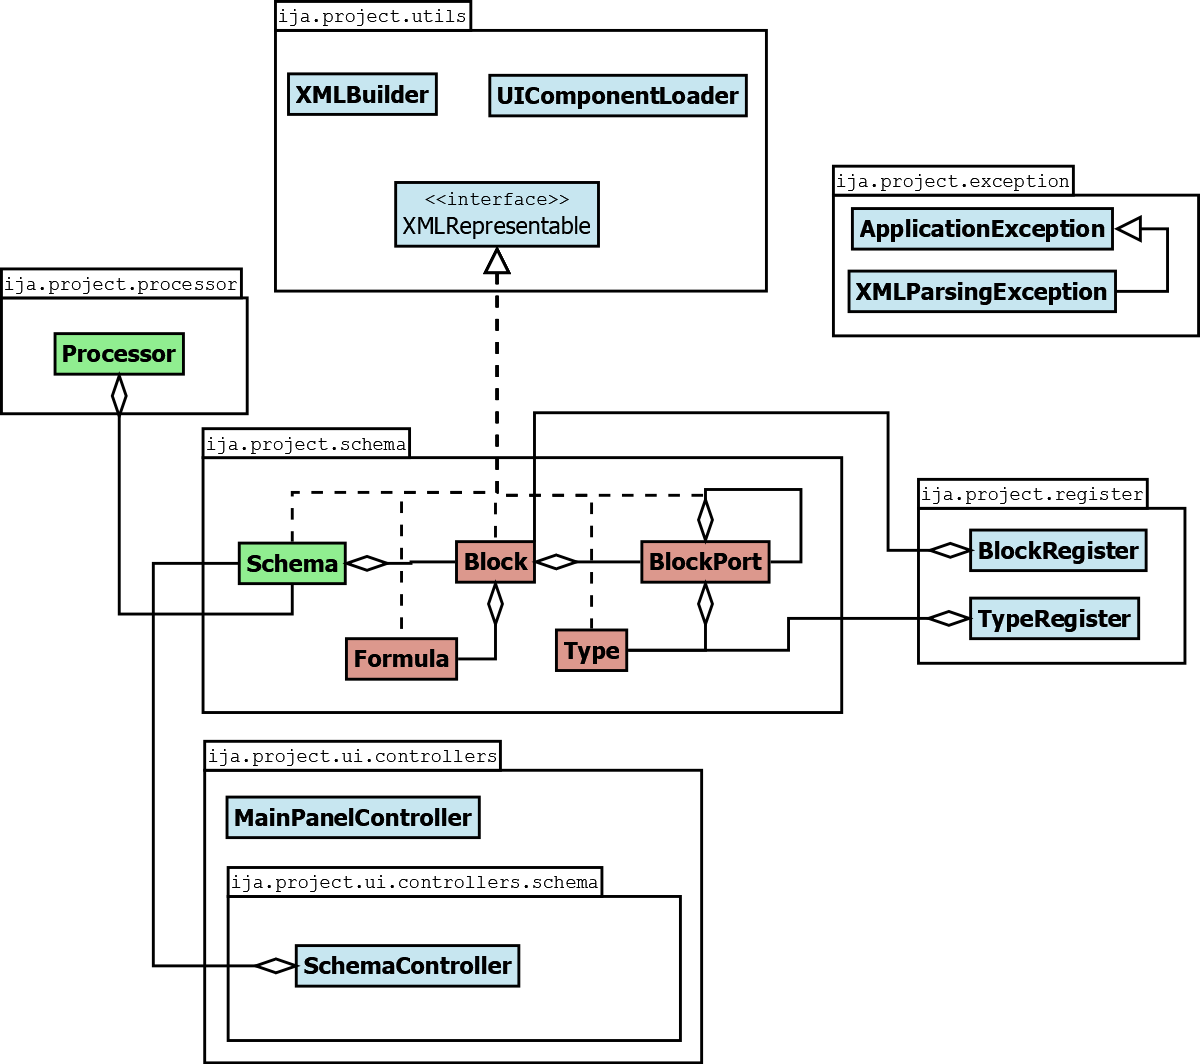
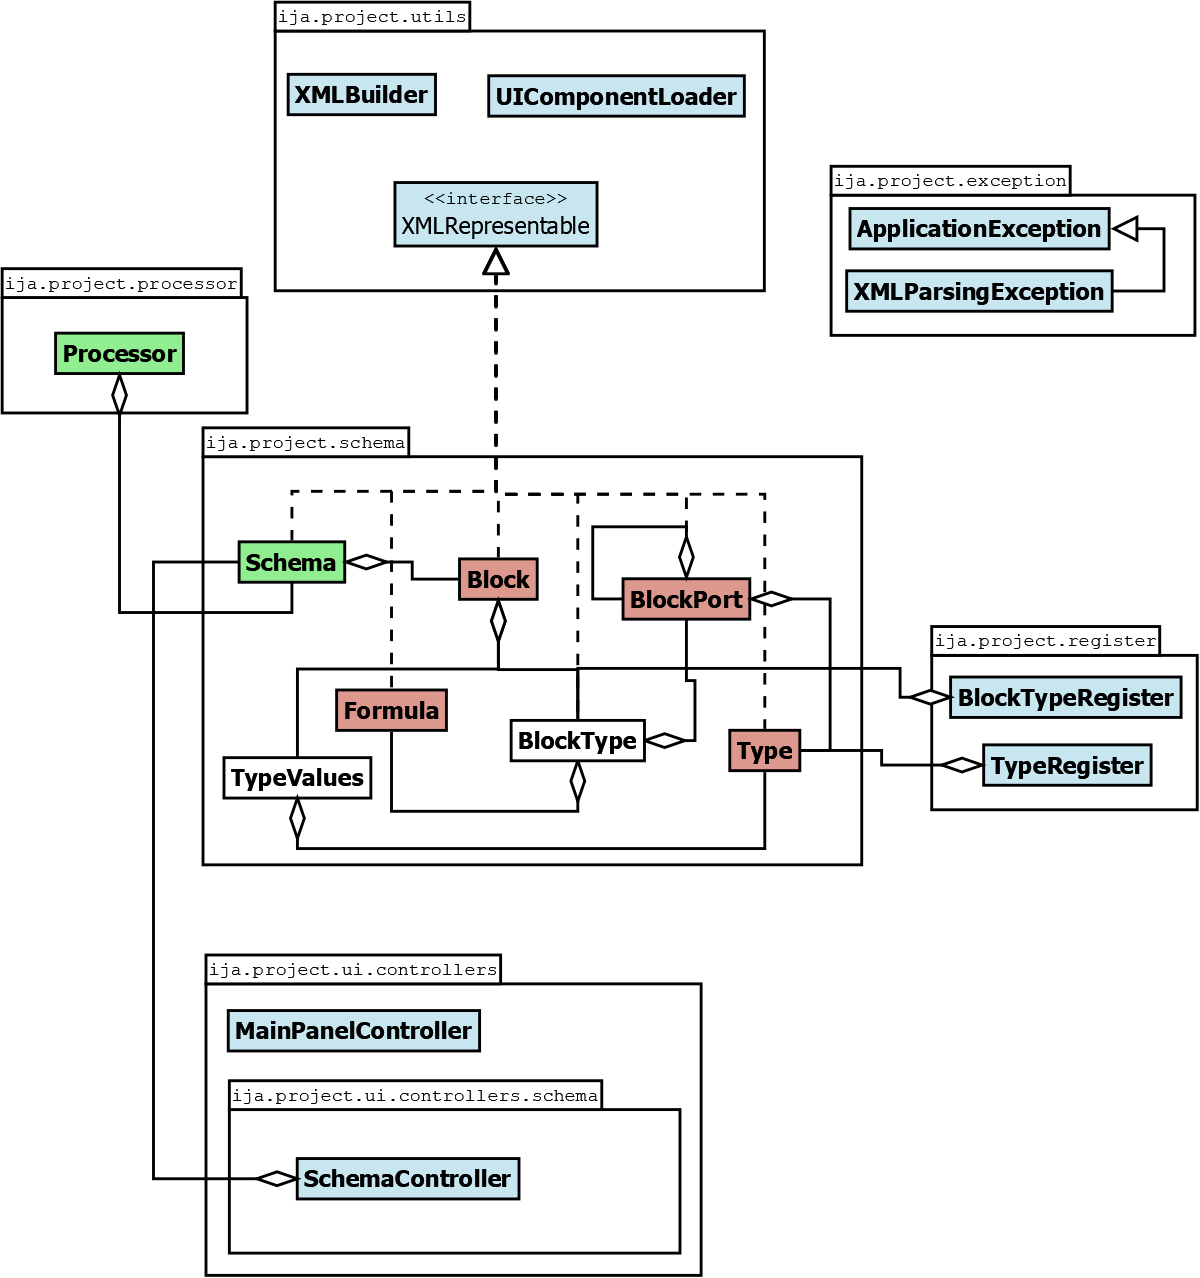
More doc, updated UML

Changed region(s): [[0.0, 0.0, 1.0, 1.0], [0.6783, 0.1241, 1.0, 0.3412]]

diff --git a/src/ija/project/schema/Block.java b/src/ija/project/schema/Block.java
@@ -41,15 +41,25 @@ public class Block implements XMLRepresentable {
 	 */
 	private DoubleProperty y;
 
+	/**
+	 * Construct blank object
+	 */
 	public Block() {
 		initEmpty();
 	}
 
+	/**
+	 * Construct object from given block type
+	 * @param blockType block type
+	 */
 	public Block(BlockType blockType) {
 		initEmpty();
 		initFromBlockType(blockType);
 	}
 
+	/**
+	 * Init empty block object
+	 */
 	private void initEmpty() {
 		this.blockType = null;
 		this.inputPorts = new HashMap<>();
@@ -59,6 +69,10 @@ public class Block implements XMLRepresentable {
 		y = new SimpleDoubleProperty(0);
 	}
 
+	/**
+	 * Init block from block type
+	 * @param blockType block type
+	 */
 	private void initFromBlockType(BlockType blockType) {
 		this.blockType = blockType;
 
@@ -85,7 +99,13 @@ public class Block implements XMLRepresentable {
 
 	}
 
-	public void connectTo(String srcPort, Block dstBlock, String dstPort) {
+	/**
+	 * Connect block's port to another block's port
+	 * @param srcPort port from
+	 * @param dstBlock block to
+	 * @param dstPort port to
+	 */
+	public void connectTo(String srcPort, Block dstBlock, String dstPort) throws ApplicationException {
 		if (!connections.containsKey(srcPort))
 			throw new ApplicationException("Block '" + blockType.getId() + "' does not contain port '" + srcPort + "'");
 		if (!dstBlock.connections.containsKey(dstPort))
@@ -95,6 +115,10 @@ public class Block implements XMLRepresentable {
 		dstBlock.connections.put(dstPort, this);
 	}
 
+	/**
+	 * Block has unconnected output port
+	 * @return true if block has unconnected output port, false otherwise
+	 */
 	public boolean hasUnconnectedOutputPort() {
 		for (Map.Entry<String, TypeValues> port : outputPorts.entrySet()) {
 			if (connections.get(port.getKey()) == null)
@@ -103,26 +127,50 @@ public class Block implements XMLRepresentable {
 		return false;
 	}
 
+	/**
+	 * Get block x coordinate
+	 * @return x
+	 */
 	public double getX() {
 		return x.get();
 	}
 
+	/**
+	 * Get x coordinate property
+	 * @return x property
+	 */
 	public DoubleProperty xProperty() {
 		return x;
 	}
 
+	/**
+	 * Set block x coordinate
+	 * @param x x coordinate
+	 */
 	public void setX(double x) {
 		this.x.set(x);
 	}
 
+	/**
+	 * Get block y coordinate
+	 * @return y coordinate
+	 */
 	public double getY() {
 		return y.get();
 	}
 
+	/**
+	 * Get y coordinate property
+	 * @return y property
+	 */
 	public DoubleProperty yProperty() {
 		return y;
 	}
 
+	/**
+	 * Set block y coordinate
+	 * @param y coordinate
+	 */
 	public void setY(double y) {
 		this.y.set(y);
 	}

diff --git a/src/ija/project/schema/BlockType.java b/src/ija/project/schema/BlockType.java
@@ -5,12 +5,30 @@ import ija.project.utils.XMLRepresentable;
 
 import java.util.ArrayList;
 
+/**
+ * Block type defines block's input/output ports, formulas, id and display name
+ */
 public class BlockType implements XMLRepresentable {
 
+	/**
+	 * Block type ID
+	 */
 	private String id;
+	/**
+	 * Display name
+	 */
 	private String displayName;
+	/**
+	 * Input port definitions
+	 */
 	private ArrayList<BlockPort> inputPorts;
+	/**
+	 * Output port definitions
+	 */
 	private ArrayList<BlockPort> outputPorts;
+	/**
+	 * Blocks formulas
+	 */
 	private ArrayList<Formula> formulas;
 
 	/**
@@ -24,6 +42,11 @@ public class BlockType implements XMLRepresentable {
 		formulas = new ArrayList<>();
 	}
 
+	/**
+	 * Create block type with id and display name
+	 * @param id id
+	 * @param displayName display name
+	 */
 	public BlockType(String id, String displayName) {
 		this.id = id;
 		this.displayName = displayName;
@@ -107,10 +130,18 @@ public class BlockType implements XMLRepresentable {
 		this.displayName = displayName;
 	}
 
+	/**
+	 * Get input port definitions
+	 * @return list of input ports
+	 */
 	public ArrayList<BlockPort> getInputPorts() {
 		return this.inputPorts;
 	}
 
+	/**
+	 * Get output port definitions
+	 * @return list of output ports
+	 */
 	public ArrayList<BlockPort> getOutputPorts() {
 		return this.outputPorts;
 	}

diff --git a/src/ija/project/schema/BlockPort.java b/src/ija/project/schema/BlockPort.java
@@ -3,26 +3,58 @@ package ija.project.schema;
 import ija.project.utils.XMLBuilder;
 import ija.project.utils.XMLRepresentable;
 
+/**
+ * Block's port definition
+ */
 public class BlockPort implements XMLRepresentable {
 
+	/**
+	 * Reference to parent BlockType
+	 */
 	private BlockType blockType;
+
+	/**
+	 * Name of port
+	 */
 	private String name;
+
+	/**
+	 * Data type of port
+	 */
 	private Type type;
 
+	/**
+	 * Construct object with given name and type
+	 * @param blockType parent BlockType
+	 * @param name port name
+	 * @param type port data type
+	 */
 	public BlockPort(BlockType blockType, String name, Type type) {
 		this.blockType = blockType;
 		this.name = name;
 		this.type = type;
 	}
 
+	/**
+	 * Get parent block type
+	 * @return parent block type
+	 */
 	public BlockType getBlockType() {
 		return blockType;
 	}
 
+	/**
+	 * Get port name
+	 * @return name
+	 */
 	public String getName() {
 		return name;
 	}
 
+	/**
+	 * Get port data type
+	 * @return type
+	 */
 	public Type getType() {
 		return type;
 	}

diff --git a/src/ija/project/schema/Schema.java b/src/ija/project/schema/Schema.java
@@ -5,15 +5,44 @@ import ija.project.utils.XMLRepresentable;
 
 import java.util.ArrayList;
 
+/**
+ * Schema represents block graph
+ */
 public class Schema implements XMLRepresentable {
-
+	/**
+	 * Schema ID
+	 */
 	private String id;
+	/**
+	 * Schema display name
+	 */
 	private String displayName;
-
+	/**
+	 * Schema blocks
+	 */
 	private ArrayList<Block> blocks;
 
+	/**
+	 * Construct blank schema
+	 */
 	public Schema() {
 		this.blocks = new ArrayList<>();
+	}
+
+	/**
+	 * Get all blocks in schema
+	 * @return list of blocks
+	 */
+	public ArrayList<Block> getBlocks() {
+		return this.blocks;
+	}
+
+	/**
+	 * Add block to schema
+	 * @param block block
+	 */
+	public void addBlock(Block block) {
+		this.blocks.add(block);
 	}
 
 	@Override
@@ -24,13 +53,5 @@ public class Schema implements XMLRepresentable {
 	@Override
 	public void toXML(XMLBuilder xmlDom) {
 
-	}
-
-	public ArrayList<Block> getBlocks() {
-		return this.blocks;
-	}
-
-	public void addBlock(Block block) {
-		this.blocks.add(block);
 	}
 }

diff --git a/src/ija/project/schema/TypeValues.java b/src/ija/project/schema/TypeValues.java
@@ -3,10 +3,19 @@ package ija.project.schema;
 import java.security.KeyException;
 import java.util.HashMap;
 
+/**
+ * Values for given Type
+ */
 public class TypeValues {
+	/** Mapped values by keys from Type */
 	private HashMap<String, Double> valuesMap;
+	/** Type */
 	private Type type;
 
+	/**
+	 * Construct values from given type
+	 * @param fromType type
+	 */
 	public TypeValues(Type fromType) {
 		this.type = fromType;
 		this.valuesMap = new HashMap<>();
@@ -42,6 +51,10 @@ public class TypeValues {
 		}
 	}
 
+	/**
+	 * Get type definition for values
+	 * @return type
+	 */
 	public Type getType() {
 		return type;
 	}

diff --git a/src/ija/project/schema/Type.java b/src/ija/project/schema/Type.java
@@ -7,6 +7,9 @@ import java.security.KeyException;
 import java.util.ArrayList;
 import java.util.HashMap;
 
+/**
+ * Type defines set of keys for values
+ */
 public class Type implements XMLRepresentable {
 
 	/** Type identificator */
@@ -46,6 +49,10 @@ public class Type implements XMLRepresentable {
 		keys.add(key);
 	}
 
+	/**
+	 * Get type keys
+	 * @return list of keys
+	 */
 	public ArrayList<String> getKeys() {
 		return keys;
 	}

diff --git a/src/ija/project/schema/Formula.java b/src/ija/project/schema/Formula.java
@@ -3,9 +3,11 @@ package ija.project.schema;
 import ija.project.utils.XMLBuilder;
 import ija.project.utils.XMLRepresentable;
 
-import java.util.Collection;
 import java.util.Map;
 
+/**
+ * Formula represents a way to transform input values to output value
+ */
 public class Formula implements XMLRepresentable {
 
 	/**
